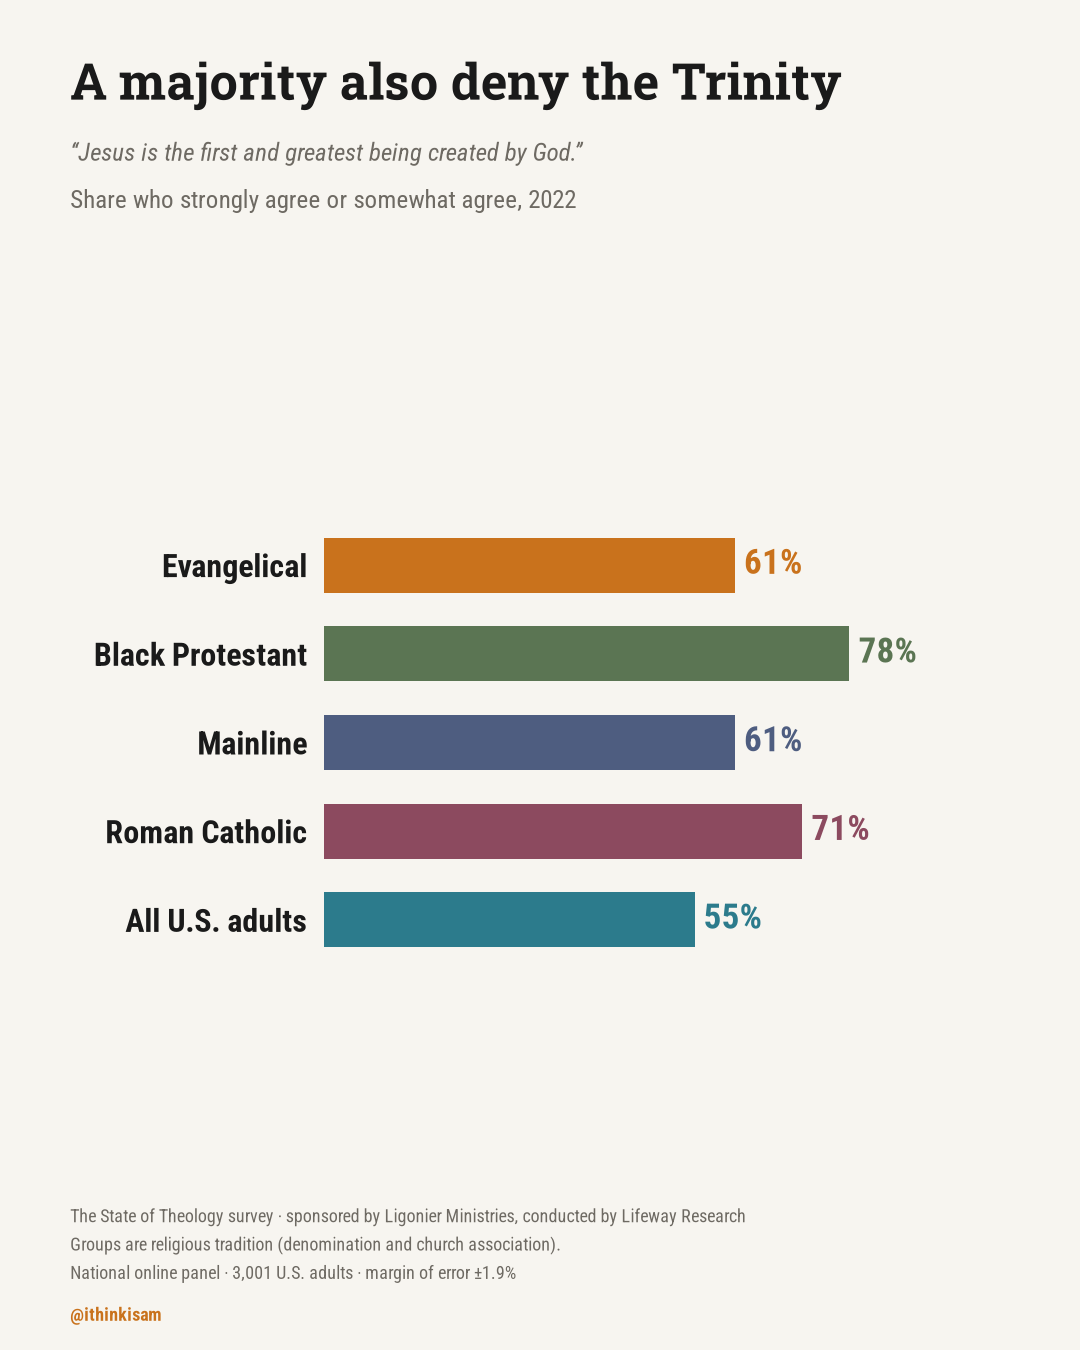
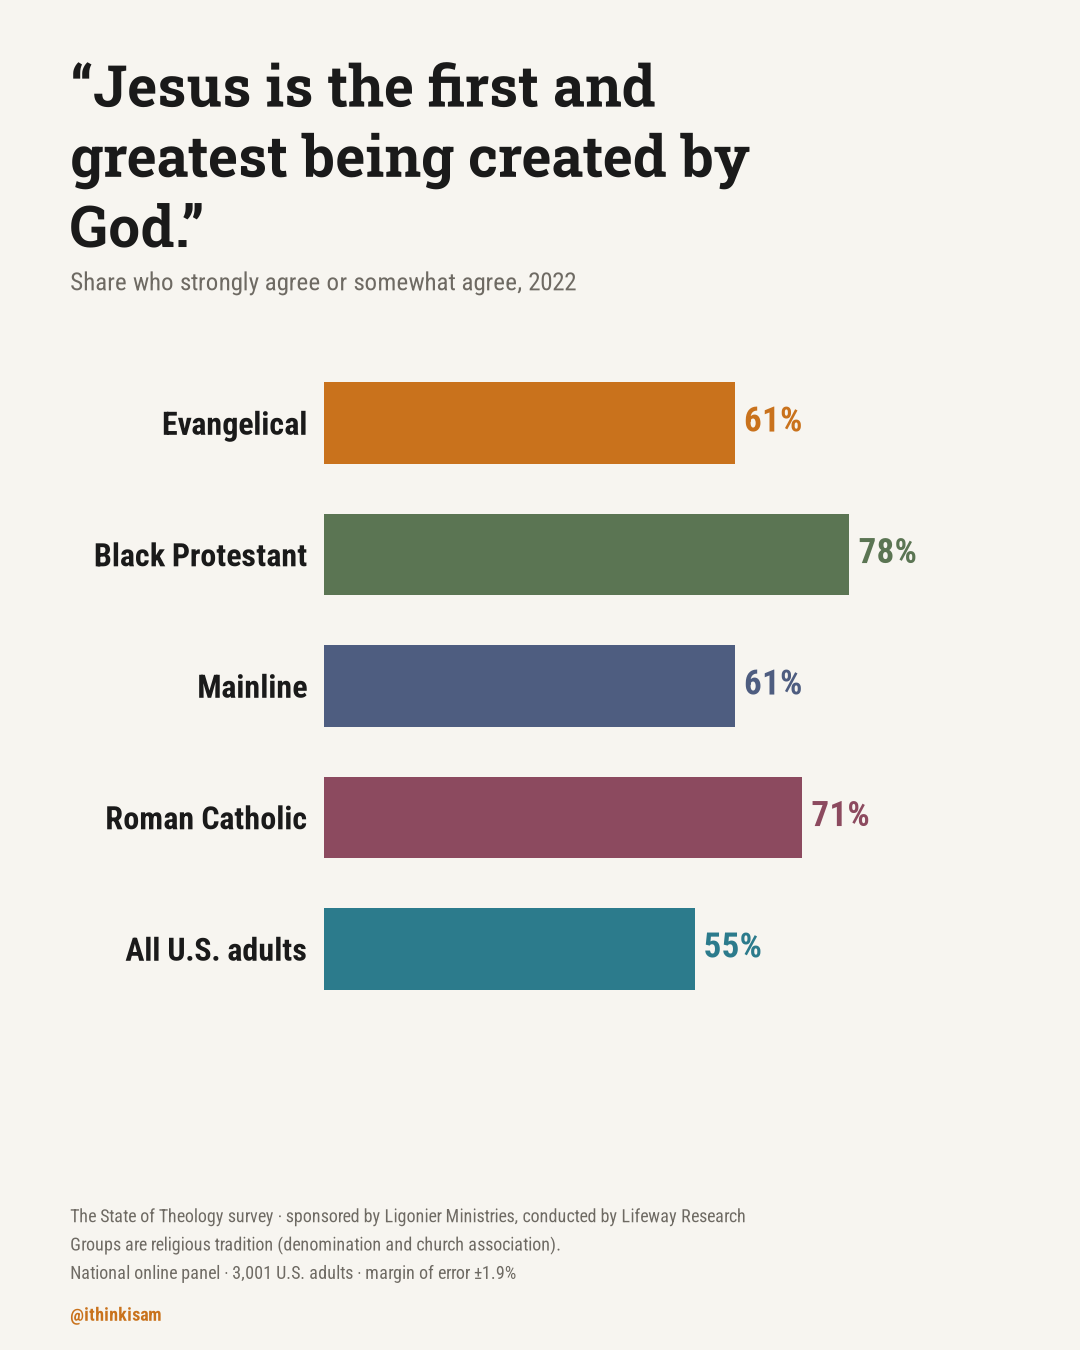
Make chart titles neutral: the survey statement, not an editorial claim
Titles were an editorial line ("A majority also deny the Trinity") sitting
above the quoted statement — that leads the reader to a conclusion before
they've seen a bar. The title is now the statement itself, verbatim, in
quotes, set large - the biggest thing on the chart, but neutral. Reworked
render_chart.py's layout accordingly (title now wraps across multiple
lines as needed; the old separate italic quote line is gone since the
title carries it) and updated the Data Explorer's copy for this analysis
to match.

STYLE.md now documents this as the website style's one deliberate
departure from the established Instagram convention in
ithinksam_statistics' STATISTICS_STYLE_GUIDE (punchy claims, right for a
feed) - and notes that a real website-specific chart generator is on hold
pending the fuller dataset; render_chart.py is a placeholder proving the
style works outside a social post, not the finished pipeline. Pushed the
same cross-reference into STATISTICS_STYLE_GUIDE and fixed the README's
earlier (wrong) claim that it didn't exist.

diff --git a/src/lib/data-explorer.ts b/src/lib/data-explorer.ts
@@ -63,10 +63,8 @@ export const DATASETS: Dataset[] = [
       },
       {
         type: "graphic",
-        title: "A majority also deny the Trinity",
-        description:
-          '"Jesus is the first and greatest being created by God" — agreement by religious ' +
-          "tradition, 2022 wave.",
+        title: '"Jesus is the first and greatest being created by God."',
+        description: "Agreement by religious tradition, 2022 wave.",
         imageSrc: "/data-explorer/state-of-theology/nicaea-lost.png",
         width: 1080,
         height: 1350,

diff --git a/scripts/state-of-theology-graphics/render_chart.py b/scripts/state-of-theology-graphics/render_chart.py
@@ -23,6 +23,7 @@ them, or place them next to this script in a `fonts/` subdirectory.
 from __future__ import annotations
 
 import argparse
+import textwrap
 from pathlib import Path
 
 import matplotlib.font_manager as fm
@@ -55,11 +56,16 @@ SOURCE_LINES = [
 ]
 HANDLE = "@ithinkisam"
 
-# item_id -> (chart title, statement quote, direction word, survey year,
-# {group: whole-number percent})
+# item_id -> (survey statement verbatim, direction word, survey year,
+# {group: whole-number percent}).
+#
+# The statement itself IS the title - no separate editorial headline. See
+# STYLE.md "Titles: neutral, not editorial" for why: a claim like "A
+# majority also deny the Trinity" tells the reader what conclusion to draw
+# before they've seen a number. Quoting the statement verbatim, in large
+# type, doesn't.
 ITEMS = {
     "arian": (
-        "A majority also deny the Trinity",
         "Jesus is the first and greatest being created by God.",
         "agree",
         "2022",
@@ -93,7 +99,7 @@ def load_fonts(fonts_dir: Path) -> dict[str, fm.FontProperties]:
 
 
 def render(item_id: str, out_path: Path, fonts_dir: Path) -> None:
-    title, quote, direction, year, values = ITEMS[item_id]
+    statement, direction, year, values = ITEMS[item_id]
     fonts = load_fonts(fonts_dir)
 
     groups = [g for g in GROUP_ORDER if g in values][::-1]  # bottom-to-top
@@ -129,21 +135,27 @@ def render(item_id: str, out_path: Path, fonts_dir: Path) -> None:
         label.set_fontsize(19)
         label.set_color(INK)
 
-    fig.subplots_adjust(left=0.30, right=0.94, top=0.62, bottom=0.28)
+    # Title IS the survey statement, verbatim, in quotes - no editorial
+    # headline above it. Wrapped by hand (matplotlib's fig-level wrap= is
+    # unreliable) at a width tuned for this font/size/canvas combination.
+    title_lines = textwrap.wrap(f"“{statement}”", width=26)
+    title_fontsize = 34
+    line_spacing = 0.052
+    title_top = 0.965
 
-    # Title (Roboto Slab Bold), plot-level so it aligns with the caption.
-    fig.text(
-        0.065, 0.965, title, fontproperties=fonts["title"], fontsize=30,
-        color=INK, ha="left", va="top", wrap=True,
-    )
+    subtitle_y = title_top - len(title_lines) * line_spacing - 0.01
 
-    # Subtitle: italic quote line, then the share/year line.
+    fig.subplots_adjust(left=0.30, right=0.94, top=subtitle_y - 0.055, bottom=0.24)
+
+    for i, line in enumerate(title_lines):
+        fig.text(
+            0.065, title_top - i * line_spacing, line,
+            fontproperties=fonts["title"], fontsize=title_fontsize,
+            color=INK, ha="left", va="top",
+        )
+
     fig.text(
-        0.065, 0.895, f"“{quote}”", fontproperties=fonts["italic"],
-        fontsize=15, color=MUTED, ha="left", va="top",
-    )
-    fig.text(
-        0.065, 0.86,
+        0.065, subtitle_y,
         f"Share who strongly {direction} or somewhat {direction}, {year}",
         fontproperties=fonts["regular"], fontsize=15, color=MUTED,
         ha="left", va="top",

diff --git a/scripts/state-of-theology-graphics/STYLE.md b/scripts/state-of-theology-graphics/STYLE.md
@@ -1,19 +1,33 @@
-# State of Theology graphics: house style
+# State of Theology graphics: website house style
 
-The visual style for @ithinkisam's State of Theology graphics, extracted
-from the R scripts that established it — [`state_of_theology_charts.R`](https://github.com/Samuel-Baird/ithinksam_statistics/blob/main/state_of_theology_charts.R)
-(comparison across survey years, Evangelical vs. All U.S. adults) and
-[`state_of_theology_groups.R`](https://github.com/Samuel-Baird/ithinksam_statistics/blob/main/state_of_theology_groups.R)
-(comparison across religious traditions, one wave). **Those R scripts are
-the canonical generator** — this doc exists so the style is written down
-somewhere instead of living only in code, and so [`render_chart.py`](render_chart.py)
-(a Python/matplotlib port for when R/ggplot2/ragg isn't available — this is
-what a Claude Code session reaches for) can be kept visually identical to
-them rather than drifting into its own look.
+**This is the website's style, not the social-media one.** @ithinkisam's
+Instagram graphics have their own established style, documented in
+[`STATISTICS_STYLE_GUIDE`](https://github.com/Samuel-Baird/ithinksam_statistics/blob/main/STATISTICS_STYLE_GUIDE)
+in the `ithinksam_statistics` repo — same color palette and typography as
+here, but built for a feed (punchy editorial titles, a post-length write-up
+alongside it). The website's [Data Explorer](../../src/app/data-explorer/)
+is a different medium with a different job — a reader is here to look up
+what the data actually says, not to be pulled through a feed — so its one
+real departure from the social style is **how a chart's title is written**;
+see below.
 
-If you change the R scripts' palette, type, or layout, update this file and
-`render_chart.py` in the same pass — an undocumented style isn't a style,
-it's a one-off.
+**Status: the real website generator doesn't exist yet.** The palette and
+type are locked (shared with the social style), but the actual
+website-specific R (or other) code is deliberately not being built yet —
+holding until the fuller dataset is delivered, so the pipeline gets
+designed against real data rather than one item. `render_chart.py` and the
+one graphic it's produced so far are a placeholder proving the style holds
+up outside a social-post context, not the finished thing. When the real
+website generator gets built, it should follow this doc; update this doc
+first if that build changes anything here.
+
+This doc is a distillation of two sources: the established R scripts —
+[`state_of_theology_charts.R`](https://github.com/Samuel-Baird/ithinksam_statistics/blob/main/state_of_theology_charts.R)
+and [`state_of_theology_groups.R`](https://github.com/Samuel-Baird/ithinksam_statistics/blob/main/state_of_theology_groups.R) —
+and `STATISTICS_STYLE_GUIDE` itself, adapted for the website's own title
+rule. If you change the shared palette or type, update `STATISTICS_STYLE_GUIDE`,
+this file, and `render_chart.py` together — an undocumented style isn't a
+style, it's a one-off.
 
 ## Format
 
@@ -55,29 +69,48 @@ stand out.
 ## Typography
 
 - **Titles**: Roboto Slab, Bold. Nothing else uses this family — it's the
-  one serif accent against an otherwise sans-serif chart.
-- **Everything else** (subtitle, quote, axis labels, value labels, caption):
+  one serif accent against an otherwise sans-serif chart. The title carries
+  the quoted survey statement itself (see "Titles: neutral, not editorial"),
+  so nothing else needs to quote it again.
+- **Everything else** (subtitle, axis labels, value labels, caption):
   Roboto Condensed. Regular for body text and source lines; Bold for value
-  labels, axis category labels, and the handle; Italic for the quoted
-  survey statement.
+  labels, axis category labels, and the handle.
 
 Font files (Apache 2.0, from Google Fonts) live in [`fonts/`](fonts/) next
 to `render_chart.py` for the Python path. The R path expects the same
 families installed as system fonts (`ragg`/`systemfonts` discover them from
 the OS, not from a bundled file).
 
+## Titles: neutral, not editorial
+
+**The title is the survey statement itself, verbatim, in quotes — nothing
+else.** Not "A majority also deny the Trinity." Not any other line that
+tells the reader what to conclude before they've seen a bar. Set it large
+and prominent (it's the biggest thing on the chart, per Composition below)
+but let it be neutral: the reader should be able to look at the title and
+the bars and reach their own read, not be handed one.
+
+This is the one deliberate departure from `STATISTICS_STYLE_GUIDE`'s social
+style, which calls for "a short, punchy claim... not a variable name" —
+that's the right call for a feed post competing for a scroll, and it stays
+the house style there. It's the wrong call for a page whose whole point is
+letting someone check what a dataset actually says. Don't port the punchy
+convention into this doc's charts, and don't port the neutral convention
+back into the Instagram scripts — they're solving different problems on
+purpose.
+
 ## Composition
 
 Every chart:
 
-1. **Title** — top-left, Roboto Slab Bold, ink. A short editorial line, not
-   a restatement of the question (e.g. "A majority also deny the Trinity,"
-   not "Percent agreeing Jesus was created").
-2. **Subtitle**, two lines, Roboto Condensed, muted:
-   - The survey statement itself, verbatim, in quotes, italic.
-   - "Share who strongly {agree|disagree} or somewhat {agree|disagree},
-     {year}" — state the direction being measured explicitly. Never round
-     "strongly + somewhat" into an unlabeled "% agree."
+1. **Title** — top-left, Roboto Slab Bold, ink, the survey statement
+   verbatim in quotes (see above). This is the largest, most prominent
+   text on the chart — it IS the headline, there's no separate one above
+   it. Wrap it across as many lines as it needs.
+2. **Subtitle**, one line, Roboto Condensed, muted, directly under the
+   title: "Share who strongly {agree|disagree} or somewhat {agree|disagree},
+   {year}" — state the direction being measured explicitly. Never round
+   "strongly + somewhat" into an unlabeled "% agree."
 3. **The chart** — no chart title/axis title, no legend (colors are
    self-explanatory once you know the palette above; a caption line
    documents it if needed). Bars are colored per the group palette; value
@@ -104,12 +137,13 @@ only.
 
 ## Adding an item
 
-**R** (canonical): add a row (or set of rows) to the `tribble()` data block
-and an entry to the `items` list, in either script depending on which
-layout fits — see the scripts themselves for the exact shape.
+There's no canonical website generator yet (see Status, above) —
+`render_chart.py` is the only generator for this style right now. When the
+real website generator is built (in whatever language), point it at this
+doc and update the workflow described here.
 
-**Python** (`render_chart.py`): add a key to the `ITEMS` dict —
-`item_id: (title, quote, direction, year, {group: percent, ...})` — and run:
+**Python** (`render_chart.py`), for now: add a key to the `ITEMS` dict —
+`item_id: (statement, direction, year, {group: percent, ...})` — and run:
 
 ```bash
 python render_chart.py --item <item_id> --out <path>.png
